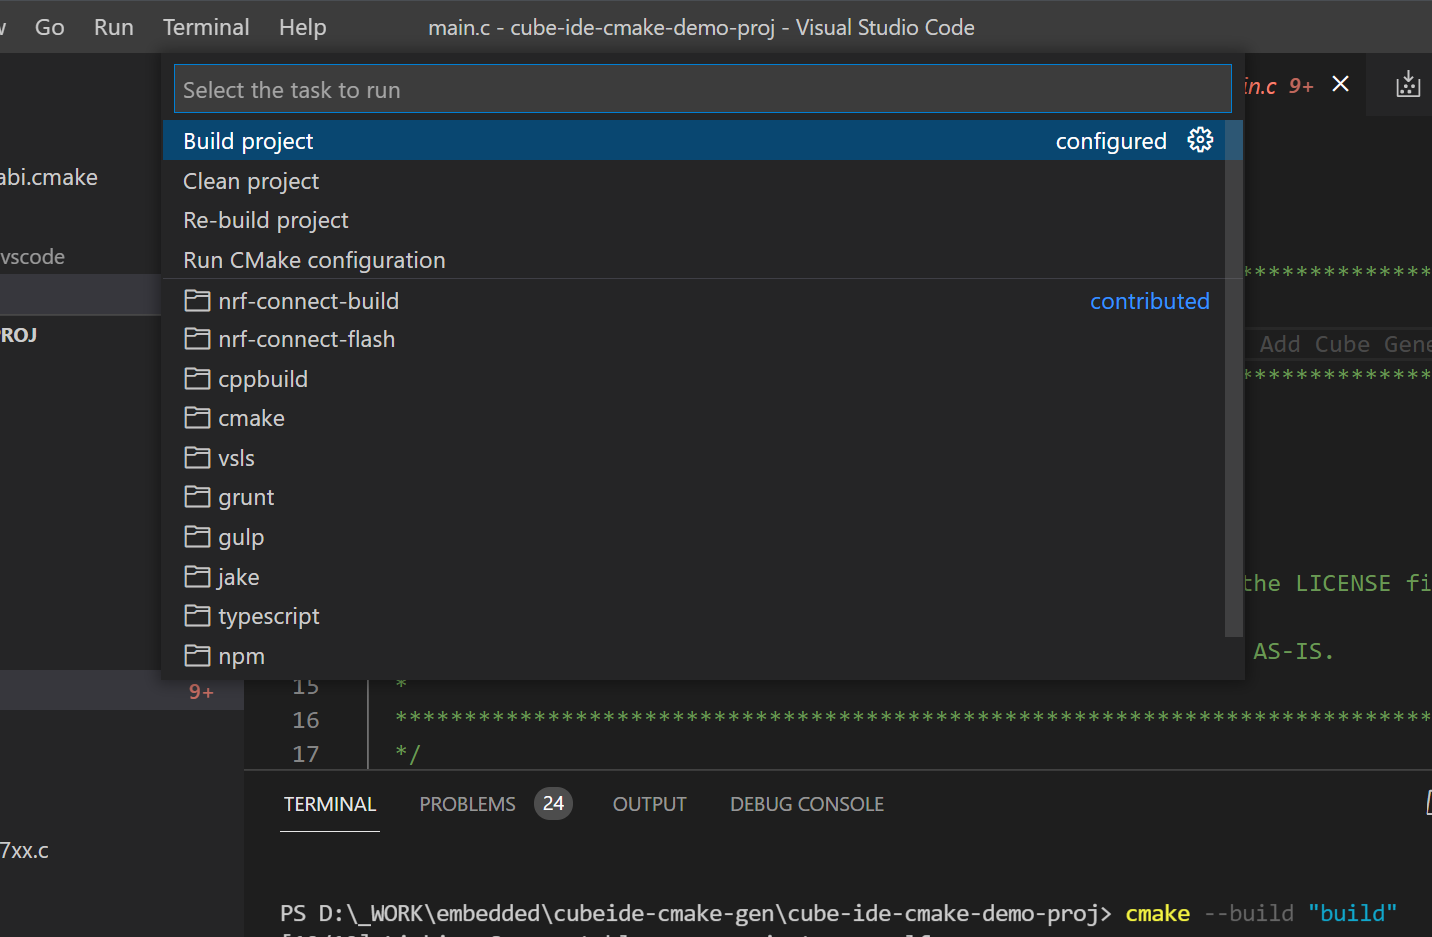
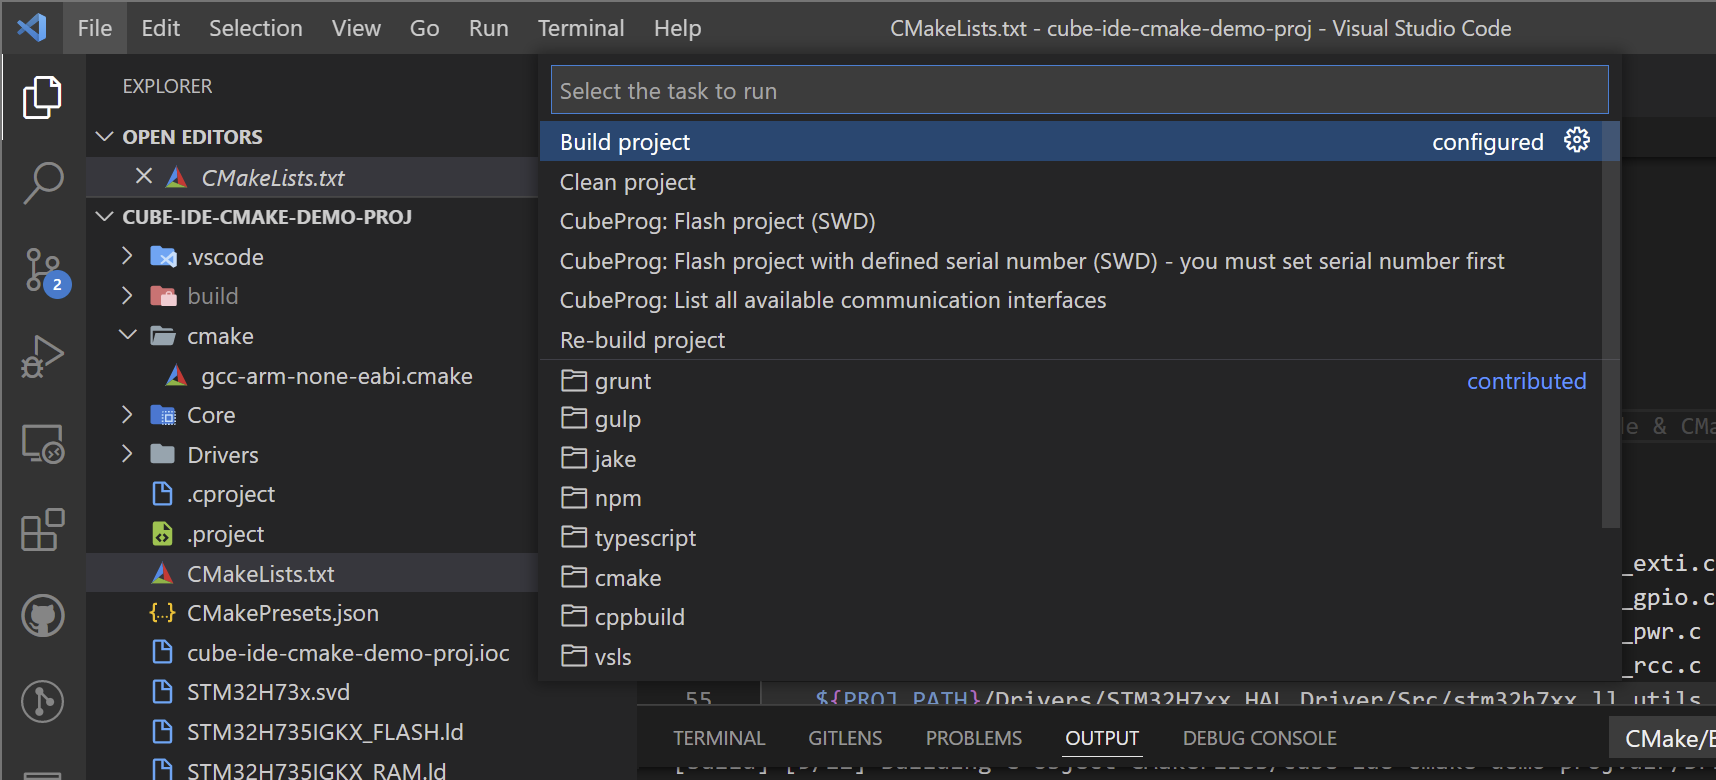
Add build

diff --git a/README.md b/README.md
@@ -536,7 +536,7 @@ File describes:
 - Default build type for each configuration (*Debug*, *Release*, ...)
 - Path to `*.cmake* toolchain descriptor
 
-> `4` presets are configured in the template for each of the default *CMake* configurations. Always up-to-date file is available in `templates/CMakePresets.json`
+> `4` presets are configured in the template for each of the default *CMake* configurations
 
 ```json
 {
@@ -583,6 +583,7 @@ File describes:
     ]
 }
 ```
+> Always up-to-date file is available in `templates/CMakePresets.json`
 
 ## Run CMake commands
 
@@ -604,22 +605,22 @@ When selected, text will change to selected *preset label*.
 
 ![VSCode - Preset selected](docs/images/vscode-7-cmake-tools-preset-selected-run-build.png)
 
+Now that preset is active, every time user will modify `CMakeLists.txt` file, thanks to *CMake-Tools* extension, VSCode will automatically invoke build generation command to apply new changes.
+
+# Build project
+
+Our project is ready for building and linking. Unless CMake build generation step failed, we should have build directory ready to invoke *ninja build system*.
+
 Next step is to hit *Build* button - as indicated with green rectangle. CMake will run commands:
 
 - Run build generator for selected preset
 - Actually build code with *Ninja*
 
-## Build project with ninja
-
-Our project is ready for building and linking. Unless CMake build generation step failed, we should have `build` directory ready to invoke *Ninja* compiler.
-
-During CMake generation step, *Ninja* was already selected as build system with `-G Ninja` parameter.
-To run actual build of source files with GCC compiler, run `cmake --build "build"` command to execute build using ninja build system.
-![VSCode - Ninja build - build finished](docs/images/vscode-9-build-finish.png)
+![VSCode - Preset selected](docs/images/vscode-9-build-finish.png)
 
 > If it builds well, final step on the output is print of memory use with different sections.
 
-As a result, we got some output in `build` directory:
+As a result, we got some output in `build/<presetname>/` directory:
 
 - `project-name.elf` file with complete executable information
 - `project-name.hex` HEX file
@@ -657,45 +658,45 @@ add_custom_command(TARGET ${EXECUTABLE} POST_BUILD
 
 There is a list of useful commands to keep in mind during project development:
 
-- Build changes:  `cmake --build "build"`
-- Clean project:  `cmake --build "build" --target clean`
-- Re-build project, with clean first: `cmake --build "build" --clean-first -v`
-- Flash project: `STM32_Programmer_CLI --connect port=swd --download build/project-name.elf -hardRst`
+- Build changes
+- Clean project
+- Re-build project, with clean first
+- Flash project
 
 Its easy to forget full syntax, rather let's create `.vscode/tasks.json` file with commands list, for quick run:
 ```json
 {
-    "version": "2.0.0",
-    "tasks": [
+	"version": "2.0.0",
+	"tasks": [
         {
             "type": "cppbuild",
             "label": "Build project",
             "command": "cmake",
-            "args": ["--build", "\"build\"", "-j", "8"],
+            "args": ["--build", "${command:cmake.buildDirectory}", "-j", "8"],
             "options": {
                 "cwd": "${workspaceFolder}"
             },
             "problemMatcher": ["$gcc"],
             "group": {
                 "kind": "build",
-                "isDefault": true       //This is default task
+                "isDefault": true
             }
         },
         {
             "type": "shell",
             "label": "Re-build project",
             "command": "cmake",
-            "args": ["--build", "\"build\"", "--clean-first", "-v", "-j", "8"],
+            "args": ["--build", "${command:cmake.buildDirectory}", "--clean-first", "-v", "-j", "8"],
             "options": {
                 "cwd": "${workspaceFolder}"
             },
-            "problemMatcher": ["$gcc"]
+            "problemMatcher": ["$gcc"],
         },
         {
             "type": "shell",
             "label": "Clean project",
             "command": "cmake",
-            "args": ["--build", "\"build\"", "--target", "clean"],
+            "args": ["--build", "${command:cmake.buildDirectory}", "--target", "clean"],
             "options": {
                 "cwd": "${workspaceFolder}"
             },
@@ -703,13 +704,12 @@ Its easy to forget full syntax, rather let's create `.vscode/tasks.json` file wi
         },
         {
             "type": "shell",
-            "label": "Flash project",
+            "label": "CubeProg: Flash project (SWD)",
             "command": "STM32_Programmer_CLI",
             "args": [
                 "--connect",
                 "port=swd",
-                "--download",
-                "${command:cmake.launchTargetPath}",
+                "--download", "${command:cmake.launchTargetPath}",
                 "-hardRst"
             ],
             "options": {
@@ -719,24 +719,36 @@ Its easy to forget full syntax, rather let's create `.vscode/tasks.json` file wi
         },
         {
             "type": "shell",
-            "label": "Run CMake configuration",
-            "command": "cmake",
+            "label": "CubeProg: Flash project with defined serial number (SWD) - you must set serial number first",
+            "command": "STM32_Programmer_CLI",
             "args": [
-                "--no-warn-unused-cli",
-                "-DCMAKE_EXPORT_COMPILE_COMMANDS:BOOL=TRUE",
-                "-DCMAKE_BUILD_TYPE:STRING=Debug",
-                "-DCMAKE_TOOLCHAIN_FILE:FILEPATH=gcc-arm-none-eabi.cmake",
-                "-Bbuild",
-                "-G", "Ninja"
+                "--connect",
+                "port=swd",
+                "sn=<yourserialnumber>",
+                "--download", "${command:cmake.launchTargetPath}",
+                "-hardRst"
             ],
             "options": {
                 "cwd": "${workspaceFolder}"
             },
             "problemMatcher": []
-        }
+        },
+        {
+            "type": "shell",
+            "label": "CubeProg: List all available communication interfaces",
+            "command": "STM32_Programmer_CLI",
+            "args": [
+                "--list",
+            ],
+            "options": {
+                "cwd": "${workspaceFolder}"
+            },
+            "problemMatcher": []
+        },
     ]
 }
 ```
+> Always up-to-date file is available in `templates/.vscode/tasks.json`
 
 Tasks defined in `tasks.json` can be invoked in VSCode interface using `Terminal -> Run Task` or with `CTRL + ALT + T` shortcut
 ![VSCode - Tasks.json file](docs/images/vscode-10-tasks.png)
@@ -750,7 +762,7 @@ Tasks defined in `tasks.json` can be invoked in VSCode interface using `Terminal
 }
 ```
 
-### CMake build system & build command with single click
+## CMake build system & build command with single click
 
 *CMake-Tools* is super powerful extension, provides many features for development.
 We have explained the hard-way how to move from source `CMakeLists.txt` file to finally fully built `.elf` project file,
@@ -763,7 +775,7 @@ At the bottom of the project, in blue line, is a `Build` button, which essential
 
 ![VSCode - Generate and build with single click](docs/images/vscode-cmake-tools-build-button.png)
 
-### List project files with CMake-Tools plugin
+## List project files with CMake-Tools plugin
 
 *CMake-Tools* VSCode plugin comes with very nice feature, that being listing all files in the project.
 When project uses files outside *root folder* tree, there is no way to see them in VSCode by default, unless you add another folder to project workspace, but then you *destroy* some of the features listed above.
@@ -780,7 +792,7 @@ After CMake build system generation, we can see virtual file added in *CMake-Too
 
 Thanks to this feature, we can have a full control over files being part of build and can quickly find files to modify, even if these are outside workspace folder directory.
 
-### GCC Problem matcher
+## GCC Problem matcher
 
 Another nice *Build Project* task parameter is `"problemMatcher": ["$gcc"],` set to GCC, which means that terminal output is parsed against GCC standard format and in case of warnings or errors, it will display nice messages in *Problems* view.
 ![VSCode - Tasks.json file](docs/images/vscode-10-tasks-1.png)
@@ -791,7 +803,7 @@ This is now fully working GCC-based compilation system running in VSCode.
 
 > Do not forget to regenerate CMake when `CMakeLists.txt` file gets modified, or use *Build* button to do it for you.
 
-### Stop receiving virtual C/C++ errors
+## Stop receiving virtual C/C++ errors
 
 As you may have noticed, some lines in C files are red-underlined, reporting a `could not find resource` error, but when compiled, all is working just fine.
 ![VSCode - Debug session](docs/images/vscode-dbg-1.png)
@@ -820,6 +832,8 @@ To overcome this problem, let's create `.vscode/c_cpp_properties.json` file and 
     ]
 }
 ```
+> Always up-to-date file is available in `templates/.vscode/c_cpp_properties.json`
+
 ![VSCode - C/C++ virtual errors](docs/images/vscode-c-cpp-1-file.png)
 
 We provided settings for `C/C++` extension, mainly for Intellisense feature, and configure it in a way to use `CMake-Tools` extension to find include paths and list of defines (preprocessor defined).
@@ -830,7 +844,7 @@ You can test it by going to one resource (ex. with mouse over a function name), 
 
 > `.vscode/c_cpp_properties.json` is used for `CppTools` extension purpose.
 
-## Debug project with cortex-debug
+# Debug project with cortex-debug
 
 Our `.elf` file has been built in previous section and can't wait to be uploaded into MCU flash and executed by *Cortex-M core*.
 We will use `Cortex-Debug` extension for debugging purpose, that will also flash firmware for us.
@@ -868,24 +882,27 @@ First thing is to create `.vscode/launch.json` file and copy below content to it
     ]
 }
 ```
+> Always up-to-date launch file is available in `templates/.vscode/launch.json`
 
 And you are ready to go! Hit `F5` and you should enter debug session with your MCU.
 ![VSCode - Debug session](docs/images/vscode-dbg-1.png)
 
 > Be sure to have ST-Link debug probe software at its latest version.
 
-### Debug to main
+Extension will invoke ST-GDBServer application, and will take `.elf` file as defined by *CMake* as target launch file.
+
+## Debug to main
 
 ![VSCode - Debug session - breakpoints - step over - step into](docs/images/vscode-dbg-1.png)
 
 You have full control over stepping and can set breakpoints like you would in STM32CubeIDE.
 
-### MCU registers with SVD
+## MCU registers with SVD
 
 If you have MCU SVD file, add its path in `launch.json` configuration, and you will see all peripheral registers in MCU.
 ![VSCode - Debug session - SVD](docs/images/vscode-dbg-3.png)
 
-### Memory view
+## Memory view
 
 To view memory, open command palette with `CTRL + SHIFT + P` and type `memory`
 
@@ -898,7 +915,7 @@ And memory length to fetch
 Nice view of MCU memory
 ![VSCode - Debug session - Memory view](docs/images/vscode-dbg-4-memory-view.png)
 
-### Assembly stepping
+## Assembly stepping
 
 You can step with assembly instructions
 
@@ -909,7 +926,7 @@ It is possible to later step by step assembly instructions too.
 
 Many other features are available.
 
-## Conclusion
+# Conclusion
 
 This is all for the tutorial.
 We showed how to create first project with STM32CubeIDE or STM32CubeMX to have its structure, sources and graphical configuration, later transferred to VSCode, CMake and Cortex-debug.
